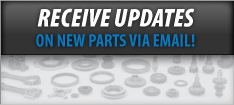
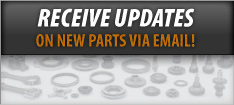
subbed in orange pictures and colors

Changed region(s): [[0.1496, 0.3143, 0.8376, 0.4571]]

diff --git a/css/style.css b/css/style.css
@@ -36,14 +36,14 @@ h2 {
   line-height: 18px;
 }
 h2.blue {
-  color:rgb(33,91,139);
+  color:#D28039;
   margin: 0 0 10px 0;
 }
 h3 {
   font-family: arial,sans-serif;
   font-size: 16px;
   font-weight: bold;
-  color:rgb(7,121,191);
+  color:#D28039;
   line-height: 20px;
 }
 h4 {
@@ -118,7 +118,7 @@ h6 {
       color:rgb(39,53,65);
       }
     ul#main-menu a:hover {
-      color:rgb(7,121,191);
+      color:#D28039;
       }
 
 
@@ -265,7 +265,7 @@ ul#associations {
 }
 
 .association-list a:hover{
-  color:rgb(7,121,191);
+  color:#D28039;
 }
 
 .note li{
@@ -495,7 +495,7 @@ ul.new li {
 ul.new li img {
   width:190px;
   height:150px;
-  border:1px solid #2388c7;
+  border:1px solid #D28039;
 }
 .caption h1 {
   font-size:14px;
@@ -543,7 +543,7 @@ ul.new li img {
 
 .questions h1 {
   font-size:18px;
-  color:#215B8B;
+  color:#D28039;
   text-shadow: 0 1px white;
   line-height:16px;
   margin:15px 0 5px;
@@ -616,8 +616,8 @@ ul.new li img {
       text-shadow: 0px 1px rgb(70,70,70);
       }
     ul#footer-menu a:hover {
-      color:rgb(7,121,191);
-      text-shadow: 0px 0px 15px rgba(7,121,191,.8);
+      color:#D28039;
+      text-shadow: 0px 0px 15px rgba(248,134,64,.8);
       }
 
 a.orderform-download {
@@ -645,7 +645,7 @@ a.orderform-download {
   font-family: arial,sans-serif;
   font-size: 16px;
   font-weight: bold;
-  color:#2388c7;
+  color:#D28039;
   text-shadow: 0 1px #222;
   line-height: 19px;
   display:block;
@@ -708,7 +708,7 @@ span.stronglabel {
   float:right;
   width:260px;
 }
-span.blue {color:#2388c7;text-shadow: 0 1px #333;  font-size: 22px;margin-bottom:5px;
+span.blue {color:#D28039;text-shadow: 0 1px #333;  font-size: 22px;margin-bottom:5px;
 }
 
 /*****************TYPEKIT FALLBACKS******************/
